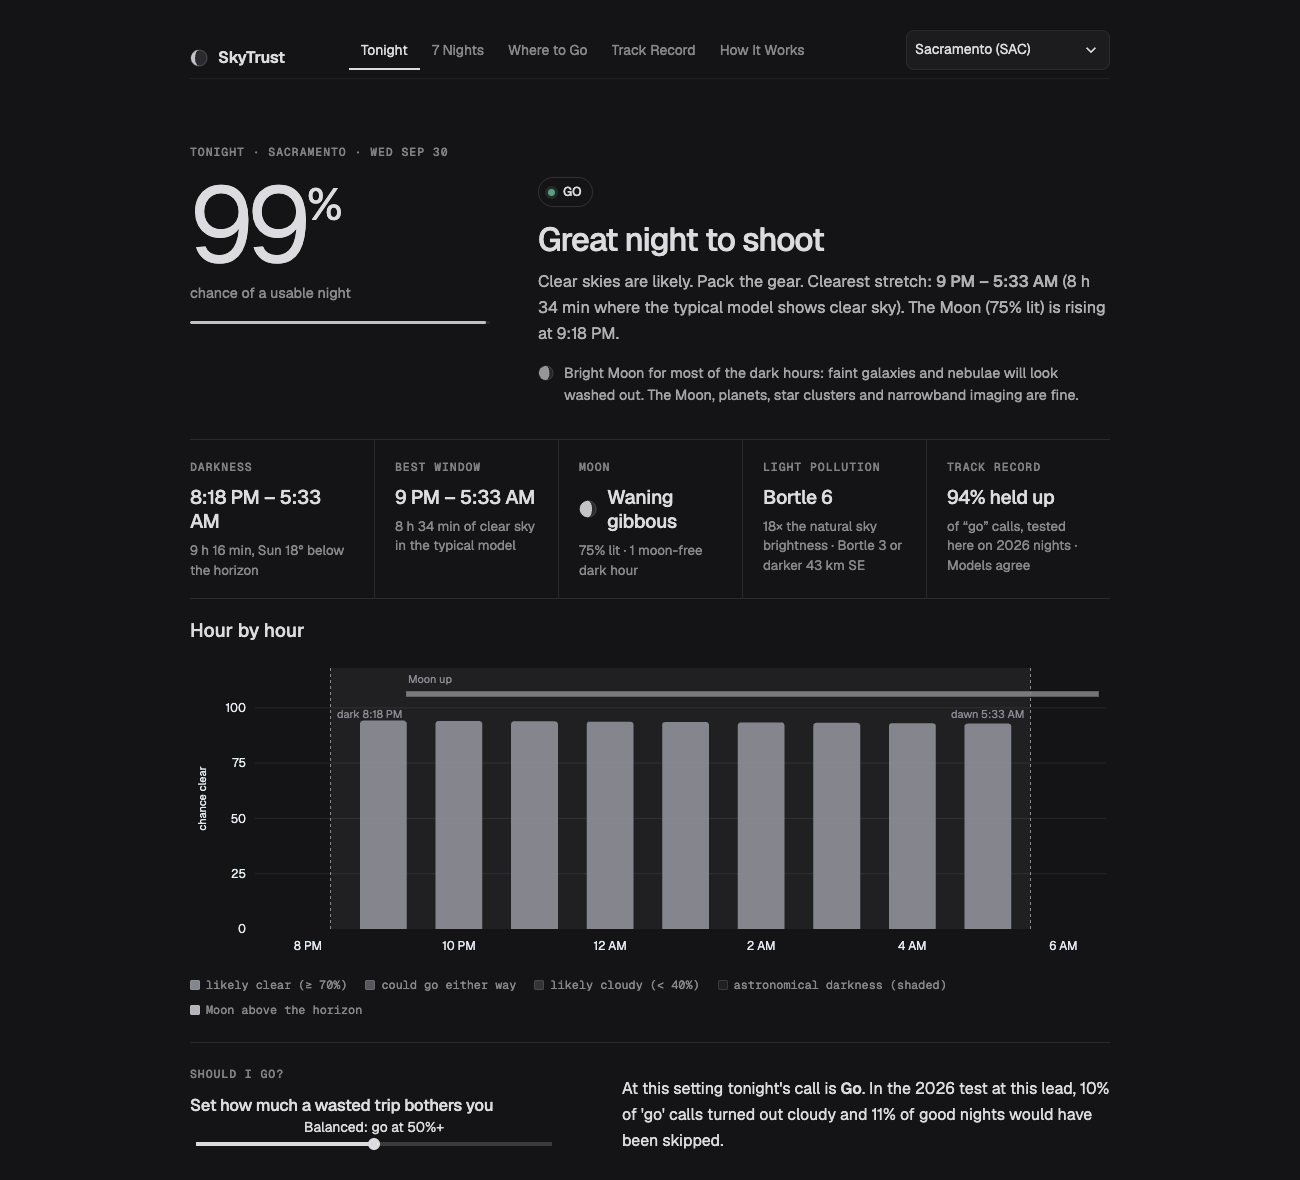
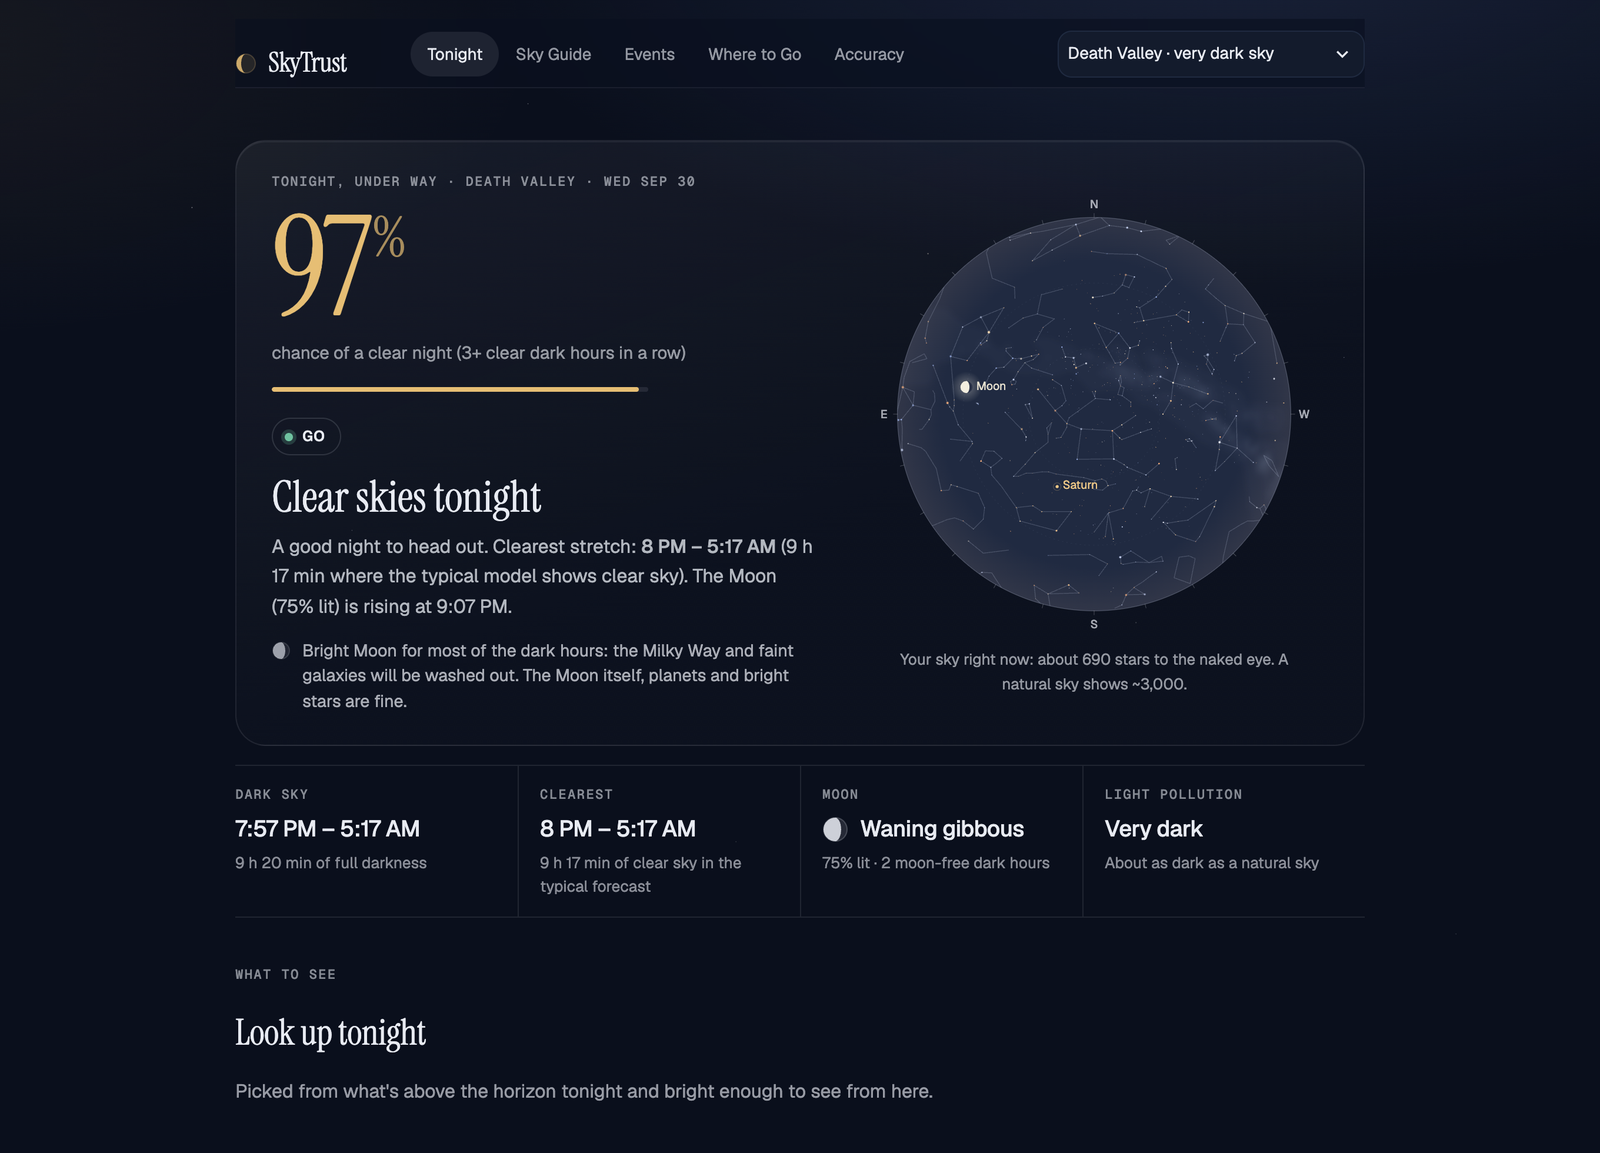
Docs: sky guide and events data notes, decisions, learning, expert advice, screenshots

diff --git a/README.md b/README.md
@@ -1,15 +1,21 @@
 # SkyTrust 🌙
 
-**An astronomy cloud forecast that tells you how often it's been wrong.**
+**A stargazing forecast for California that tells you how often it's been wrong, and what you'll
+actually see when you look up.**
 
 [![CI](https://github.com/hitenjain22/skytrust/actions/workflows/ci.yml/badge.svg)](https://github.com/hitenjain22/skytrust/actions/workflows/ci.yml)
 
 **Live app: [skytrust.streamlit.app](https://skytrust.streamlit.app/)** · **Full results:** [docs/RESULTS.md](docs/RESULTS.md)
 
 <p align="center">
-  <img src="docs/screenshots/tonight.png" alt="Tonight page: plain-English verdict with the chance of a usable night, darkness, best window, Moon phase, how much to trust it, and an hour-by-hour chart" width="68%">
+  <img src="docs/screenshots/tonight.png" alt="Tonight page: the chance of a clear night, a picture of the sky you'll actually see from there, and the four facts that matter" width="68%">
   &nbsp;
   <img src="docs/screenshots/tonight_mobile.png" alt="The same page on a phone" width="24%">
+</p>
+<p align="center">
+  <img src="docs/screenshots/sky_guide.png" alt="Sky Guide: a chart of tonight's sky over Death Valley with the Milky Way, planets and constellations, and a list of what's up and where" width="46%">
+  &nbsp;
+  <img src="docs/screenshots/events.png" alt="Events: meteor showers with expected meteors per hour at California places, Moon phases and planet events" width="46%">
 </p>
 
 ## The problem
@@ -52,13 +58,27 @@ flowchart LR
 - **The blend** is a logistic regression per lead time over every model's forecast, how much the
   models disagree, and site/season context. It's trained on 2024-25 and tested once on 2026.
 
-**Where to go:** tonight's forecast is combined with light pollution and the Moon. The peer-reviewed
-World Atlas of Artificial Night Sky Brightness (±0.15 mag/arcsec²) is brought up to **2025** with
-NASA night lights: a light-spread kernel learned from the atlas (spatial-CV error 0.044 mag) turns
-the change in lights since 2015 into the change in sky glow, checked against an independent 2025
-model. For any location the app shows sky quality and Bortle class, the change since 2015, the
-darkest skies within 25/50/100 km, and **city glow**: which towns' light domes sit on which part of
-the horizon, and where to point instead.
+## What the app does
+
+Five pages, written for someone new to stargazing, for nine well-known California places (bright
+cities to dark deserts) or any spot you choose:
+
+- **Tonight:** the chance of a clear night, a picture of the sky as you'll actually see it from
+  there (only the stars that show through the local light pollution and moonlight are drawn),
+  what to look for tonight (planets, the Milky Way, a star pattern to learn), and the week ahead.
+- **Sky Guide:** a live chart of the sky for any hour of the night, a list of what's up and where
+  ("high in the SE"), where the Milky Way runs and when it's best, and where to look with your back
+  to the Moon. Visibility comes from published models: Schaefer's limiting magnitude, Krisciunas &
+  Schaefer's moonlight, the light-pollution map.
+- **Events:** meteor showers (the International Meteor Organization's list), Moon phases, planets
+  at their best, close pairings and eclipses for the next four months, with when and where to
+  look, and for showers the expected meteors per hour at each place in California. Computed from
+  JPL's ephemeris and checked against published dates; see [docs/SKY_EVENTS.md](docs/SKY_EVENTS.md).
+- **Where to Go:** places ranked by tonight's clear sky, dark sky and Moon; light pollution in plain
+  words (very dark … city, "× natural"); the nearest darker skies; and **city glow**, which towns
+  light up which part of the horizon. The peer-reviewed World Atlas of Artificial Night Sky
+  Brightness is brought up to **2025** with NASA night lights.
+- **Accuracy:** the track record and how it works.
 
 ## Headline results
 
@@ -90,12 +110,12 @@ A backtest is evaluated on data the developer has seen, so SkyTrust also runs a 
 Every afternoon a scheduled GitHub Action saves the forecasts for the next 7 nights *before* the
 outcome exists. About a week later, once observations are published, it scores them with the same
 code, next to NOAA's National Blend of Models and the raw ECMWF/GEFS ensembles. The running record
-is on the app's Track Record page. The log is append-only on the
+is on the app's Accuracy page. The log is append-only on the
 [`forward-data`](https://github.com/hitenjain22/skytrust/tree/forward-data) branch.
 
 ## Methodology and caveats
 
-The short version is above; the app's **How It Works** page and [docs/RESULTS.md](docs/RESULTS.md)
+The short version is above; the app's **Accuracy** page and [docs/RESULTS.md](docs/RESULTS.md)
 have the details. Key caveats:
 - Airport ceilometers can't see cirrus; ERA5 is a model on a ~28 km grid and is made by ECMWF
   (so ECMWF may look better than it is under ERA5-based labels; results flag this).
@@ -149,9 +169,13 @@ src/skytrust/
   inference.py   numpy-only model loading/prediction (what the app runs)
   evaluate.py    metrics + week-block bootstrap CIs     report.py   RESULTS.md, README block
   live.py        tonight + 7-night outlook, last-good cache fallback
-app/             Streamlit app (4 pages)
+  lightpollution.py, skyglow.py   light-pollution map (2025) and city glow
+  sky.py         what's up tonight and what you can see (positions, light pollution, moonlight)
+  events.py      meteor showers, Moon, planets, pairings, eclipses     skycatalog.py  star data
+app/             Streamlit app (5 pages; the sky chart is drawn as SVG in views/skychart.py)
 artifacts/       model_lead{1..7}.json, metrics.json (committed; the app reads only these)
-config/          settings.yaml (all thresholds), sites.yaml (from IEM metadata)
+config/          settings.yaml (all thresholds), sites.yaml (evaluated airports), places.yaml,
+                 meteor_showers.yaml (IMO 2026)
 docs/            RESULTS, DATA_QUALITY, DATA_NOTES, DECISIONS, LEARNING, figures, screenshots
 tests/           offline tests + recorded API fixtures + a synthetic raw-data generator
 ```
@@ -162,7 +186,7 @@ Out of scope for v1, and natural extensions:
 - **Dew timer:** when optics will dew up from radiative cooling.
 - **Central Valley fog / inversion mode:** tule fog, and "drive above X ft".
 - **Mid-latitude aurora module.**
-- **GOES satellite clear-sky mask as ground truth:** fixes the ceilometer's cirrus blind spot.
+- **Satellite passes and comets:** ISS passes and bright comets need live orbital elements.
 - **Satellite cloud-motion nowcasting** for the next few hours.
 
 ## Data attribution
@@ -176,6 +200,9 @@ data [doi:10.5880/GFZ.1.4.2016.001](https://doi.org/10.5880/GFZ.1.4.2016.001) (C
 Night lights: NASA Black Marble (VNP46A4/VJ146A4, CC0) via [lightpollutionmap.info](https://www.lightpollutionmap.info).
 Place names: [GeoNames](https://www.geonames.org/) (CC BY 4.0).
 Astronomy computed with [Skyfield](https://rhodesmill.org/skyfield/) and JPL's DE421 ephemeris.
+Stars: ESA Hipparcos catalogue (via CDS). Constellation figures and Milky Way outline:
+[d3-celestial](https://github.com/ofrohn/d3-celestial) by Olaf Frohn (BSD-3-Clause). Meteor showers:
+the [International Meteor Organization](https://www.imo.net/)'s 2026 Meteor Shower Calendar.
 
 ---
 

diff --git a/docs/SKY_EVENTS.md b/docs/SKY_EVENTS.md
@@ -1,0 +1,72 @@
+# What the experts say about sky events (and how SkyTrust uses it)
+
+Notes from the organisations that publish sky events, gathered on 2026-09-30 for the Events and
+Sky Guide pages. Quotes are verbatim from the pages listed under Sources. Anything SkyTrust
+*computes* (times, rates, positions) is not repeated here: it comes from the code and is shown in
+the app, with the checks in `tests/test_events.py`.
+
+## International Meteor Organization (IMO): the meteor-shower calendar
+
+The IMO's *2026 Meteor Shower Calendar* (J. Rendtel, ed.) is the reference list for meteor
+showers; SkyTrust's `config/meteor_showers.yaml` is transcribed from its Table 5 ("Working List of
+Visual Meteor Showers").
+
+- **What a ZHR means:** "a calculated maximum number of meteors an ideal observer would see in
+  perfectly clear skies (reference limiting magnitude +6.5) with the shower radiant overhead."
+  So real rates are lower; SkyTrust shows the expected rate for each place with its light
+  pollution and the Moon, using the IMO's correction formula.
+- **The big three in 2026:** "the Quadrantid peak at Full Moon and moon-free nights for the peaks
+  of the Perseids and the Geminids."
+- **Autumn 2026:** "The maxima of the Orionids (008 ORI) and Leonids (013 LEO) occur when the Moon
+  is near its first quarter. There is only a waxing crescent at the Geminid (004 GEM) maximum."
+  The two Taurid branches peak "around November 05 (Southern Taurids…) and November 12 (Northern
+  Taurids…), respectively, in a moon-free period."
+- **Geminids:** "The best and most reliable of the major annual showers presently observable…
+  known for bright meteors and fireballs. Well north of the equator, the radiant rises about
+  sunset, reaching a usable elevation already from the local evening hours onwards."
+- **Orionids:** "The shower's radiant… is at a useful elevation from local midnight or so…
+  The waxing moon leaves some moon-free hours at least until the maximum of the shower."
+- **Draconids:** "Perfectly moonless observing conditions… this year… Draconid meteors are
+  exceptionally slow-moving." Usually weak, but storms in 1933 and 1946 and outbursts since.
+
+## NASA
+
+- **Meteor watching** (NASA's Orionids page): "Find an area well away from the city or street
+  lights." "Lie flat on your back… and look up." "In less than 30 minutes in the dark, your eyes
+  will adapt and you will begin to see meteors." The best views come from "45 to 90 degrees away
+  from the radiant" where meteors "will appear longer and more spectacular." The show is viewable
+  "during the hours after midnight" and "will last until dawn."
+- **Shower parents:** the Orionids and the Eta Aquariids come from comet 1P/Halley; the
+  Quadrantids "originate from an asteroid: asteroid 2003 EH1," and their peak "is much shorter –
+  only a few hours." The Eta Aquariids are seen "during the pre-dawn hours."
+- **October 2026 Night Sky Notes:** Algol, "the Demon Star," in Perseus, visible with Cassiopeia
+  and Andromeda "in the northeastern sky, beginning after 9 PM," dims from magnitude +2.1 to +3.4
+  "about every three days"; the Orionids are "active from Oct. 2 – Nov. 7, 2026, with peak night on
+  Oct. 21-22."
+- **Beginners:** NASA's tips pages suggest that "a good pair of binoculars" makes an excellent
+  first instrument.
+- **Eclipses:** NASA's eclipse catalogue (F. Espenak) gives the 2026 August 28 partial lunar
+  eclipse an umbral magnitude of 0.9299, greatest at 04:13 UTC, which SkyTrust's computation
+  reproduces.
+
+## How SkyTrust turns this into advice
+
+| Expert advice | In the app |
+|---|---|
+| Get away from city lights | Expected meteors per hour at every place, and a "best places in California" list for each shower |
+| Moonlight hurts | Moon phase and whether it's up at the best time; a Krisciunas & Schaefer moonlight model in the sky chart |
+| Look 45–90° from the radiant; lie back | Radiant direction and height for your place, and the tip on every shower |
+| Give your eyes 20–30 minutes | In the beginner guide on Tonight |
+| ZHR is an ideal-observer number | Rates shown for one observer, capped at the ZHR, never more |
+| Peak nights are written as "Oct 21–22" | Events are dated by the evening the night starts |
+
+## Sources
+
+- IMO, *2026 Meteor Shower Calendar*: https://www.imo.net/the-2026-meteor-shower-calendar-is-here/
+  (PDF copy: http://www.meteorastronomie.ch/images/cal2026_e.pdf)
+- NASA, Orionids: https://science.nasa.gov/solar-system/meteors-meteorites/orionids/
+- NASA, Quadrantids: https://science.nasa.gov/solar-system/meteors-meteorites/quadrantids/
+- NASA, Eta Aquariids: https://science.nasa.gov/solar-system/meteors-meteorites/eta-aquarids/
+- NASA Night Sky Network, October 2026: https://science.nasa.gov/solar-system/skywatching/night-sky-network/spooky-stargazing/
+- NASA skywatching tips: https://science.nasa.gov/skywatching/tips-guides/
+- NASA eclipses 2026: https://eclipse.gsfc.nasa.gov/OH/OH2026.html

diff --git a/docs/DATA_NOTES.md b/docs/DATA_NOTES.md
@@ -291,3 +291,55 @@ Checked against real files (2025-01-10, 2025-06-15, 2026-02-03) before any code 
 - **Walker's law** (Walker 1977, *PASP* 89:405): glow toward a city ∝ distance^−2.5, used for the
   *relative* strength of light domes. The absolute constant could not be confirmed from a
   primary source, so strengths are relative to Sacramento's dome seen from 50 km.
+
+## 13. The sky guide and sky events, added 2026-09-30
+
+**Places** (`config/places.yaml`): nine well-known California places, coordinates and elevation
+(SRTM3 `dem`) from GeoNames cities1000 (CC BY 4.0); each row keeps its `geonames_id`. "Lake
+Tahoe" is the GeoNames record for South Lake Tahoe; "Death Valley" is the populated place of that
+name (GeoNames 12523068). How dark each place is comes from the 2025 light-pollution grid at run
+time (SQM: Los Angeles 17.29, San Francisco 18.11, Sacramento 18.08, Santa Barbara 19.38, Big Bear
+Lake 20.93, Joshua Tree 21.09, South Lake Tahoe 21.37, Yosemite Valley 21.96, Death Valley 21.98).
+They were never part of the evaluation, so forecasts there use the site-agnostic blend.
+
+**Stars**: Hipparcos main catalogue (ESA 1997, CDS I/239, `hip_main.dat`), every star with
+V ≤ 6.5 (8,874): position (ICRS, epoch J1991.25; proper motion ignored, < 0.1° for any naked-eye
+star in 35 years), V, B−V. A few entries have no astrometric solution; their sexagesimal columns
+are used. Proper names: Skyfield's `named_star_dict` (100 of its names are among these stars).
+
+**Constellations and the Milky Way**: d3-celestial by Olaf Frohn (BSD-3-Clause):
+`constellations.lines.json` (stick figures), `constellations.json` (label positions, a 1–3
+importance rank), `mw.json` (five nested brightness levels of the Milky Way outline). Constellation
+membership of every star and object comes from Skyfield's bundled IAU boundaries (Roman 1987), an
+independent check on the third-party coordinates.
+
+**Deep-sky showpieces**: d3-celestial `messier.json` and `dsos.bright.json`. **Finding:** the
+bright-DSO list files M4 at RA 83.82°, M42's right ascension (M4 is at 245.9°, in Scorpius). The
+build checks every object against the constellation it must fall in and refuses bad ones, so
+Messier objects come from the Messier list. Clusters wider than 100′ (Pleiades, Hyades, α Persei,
+Coma) are judged by their third-brightest catalogue star within the cluster radius, not their
+combined magnitude.
+
+**Meteor showers** (`config/meteor_showers.yaml`): the IMO's *2026 Meteor Shower Calendar*
+(J. Rendtel, ed., IMO INFO(3-25), DOI 10.13140/RG.2.2.36179.08480), Table 5. Peaks are stored as
+solar longitudes and converted to times with Skyfield; for 2026 they reproduce the calendar's
+times within 25 minutes (Geminids 13:49 vs 14h UT, Leonids 23:52 vs 23:45, Draconids 01:21 vs 01h,
+Quadrantids 21:24 vs ~21h). Notes on parent bodies are from the calendar text or NASA's shower
+pages. **Findings:** (1) the calendar's Draconid radiant is 262°, +54° in Table 5 but 263°, +56° in
+the text; Table 5 is used. (2) Table 4's lunar phase dates follow Central European time: the
+June 2026 full Moon (23:57 UTC on June 29, confirmed by other sources) is listed as June 30.
+
+**Validation of the computed events** (tests/test_events.py): every 2026 new and full Moon matches
+IMO Table 4; Saturn's 2026 opposition is computed at 12:29 UTC on October 4 (published ~12:00 UTC,
+definitions differ); the 2026 lunar eclipses are found on March 3 (total) and August 28 (partial,
+greatest at 04:12:54 UTC, umbral magnitude 0.929; NASA/Espenak: 04:13 UTC, 0.9299). News reports'
+"96%" for that eclipse is by area, not diameter.
+
+**Formulas** (sources in `sky.py`): limiting magnitude NELM = 7.93 − 5 log10(10^(4.316 − B/5) + 1)
+(Schaefer 1990 via Unihedron); moonlight per Krisciunas & Schaefer (1991) as reproduced in Yao et
+al. (2013, RAA 13:1255); B[nL] = 34.08 exp(20.7233 − 0.92104 V) (Garstang 1989, confirmed in
+arXiv:1710.06755); observed meteor rate = ZHR · sin(h) / r^(6.5 − LM) (the IMO formula, zenith
+exponent 1; LM capped at 6.5). Assumed: extinction 0.20 mag/airmass (K&S: 0.172 on Mauna Kea; Yao
+et al.: 0.23 at Xinglong). Wikipedia's Bortle table lists naked-eye limits 0.3–1.2 mag fainter than
+the Schaefer formula at the same SQM: Bortle describes experienced observers, the formula a
+typical one; the app uses the formula and says so.

diff --git a/docs/LEARNING.md b/docs/LEARNING.md
@@ -819,3 +819,51 @@ darkest, not just one number overhead.
 1. Why update the old atlas by a ratio instead of replacing it with your model?
 2. How would you validate a model when the "truth" is itself a model?
 3. What's Walker's law, and why use it only for relative dome strength?
+
+---
+
+## `skytrust/sky.py`: what can I actually see tonight?
+
+**What:** For a place and a night: where the planets, Moon, bright stars, star patterns, clusters
+and the Milky Way are, when each is best, and whether it will show through the local light
+pollution and moonlight. Also where the sky is darkest while the Moon is up.
+
+**Why:** "Clear" isn't enough for a beginner. From Los Angeles you see about 50 stars; from Death
+Valley about 3,000. Telling people what they will actually see, and where to look, is the useful
+part.
+
+**Key concepts:**
+- **Coordinate frames:** catalogue positions (J2000) → apparent positions of date → altitude and
+  azimuth via local sidereal time. Computing the slow part once per night makes it fast.
+- **Physical models over guesses:** sky brightness from a calibrated atlas, moonlight from
+  Krisciunas & Schaefer's scattering model, the faintest visible star from Schaefer's formula.
+- **Calibrating a heuristic against an independent description:** the one tuned rule is set so the
+  Bortle scale's descriptions come out right.
+
+**Interview questions:**
+1. Why is the darkest part of a moonlit sky not directly opposite the Moon?
+2. How do you turn "sky brightness in mag/arcsec²" into "how many stars can I see"?
+3. Why does a star cluster with a bright total magnitude sometimes not show from a city?
+
+---
+
+## `skytrust/events.py`: sky events, computed and checked
+
+**What:** Meteor showers (from the IMO's list), Moon phases, planets at opposition and greatest
+elongation, close pairings of the Moon and planets, lunar eclipses and the seasons, with when and
+where to look from a place and, for showers, the expected meteors per hour at each place.
+
+**Why:** "Is anything happening this week?" is the first question a new stargazer asks, and the
+answer depends on where you are (light pollution changes a shower from 1 to 20 meteors an hour).
+
+**Key concepts:**
+- **Recurring by solar longitude:** showers return when Earth reaches the same point of its orbit,
+  so a peak is a solar longitude, not a date; root-finding turns it into a time for any year.
+- **Event search:** find_discrete / find_maxima over smooth functions (phase, elongation,
+  separation), then refine.
+- **Test against the world:** published phase tables, opposition times and eclipse figures.
+
+**Interview questions:**
+1. Why store a meteor shower's peak as a solar longitude rather than a date?
+2. How would you find every moment two planets come within 3° over four months, efficiently?
+3. The ZHR is 150; why might you only see 7 meteors an hour from a city?

diff --git a/docs/DECISIONS.md b/docs/DECISIONS.md
@@ -506,3 +506,26 @@ Hiten asked for the path that is easiest to understand and gives the most consis
 - **Shared links are untrusted input:** coordinates outside the covered area or not numbers
   fall back to the default spot with a notice; names are reduced to plain text (they appear in
   markdown headings).
+
+## 2026-09-30: a stargazing guide for beginners (sky guide, events, places, plain language)
+- **Places instead of airports in the menu:** nine well-known California places (three bright,
+  three in between, three dark, picked by the 2025 light-pollution grid) replace the five ASOS
+  airports, at Hiten's request. The airports stay the evaluation sites: Track Record still reports
+  them, and the places use the site-agnostic blend with its leave-one-site-out record (a place is
+  never shown a track record it doesn't have). `live.uses_site_blend` makes that explicit.
+- **Light pollution in words, not Bortle numbers:** five tiers (very dark, dark, suburban, bright,
+  city) are the Bortle classes' SQM ranges grouped (1–3, 4–4.5, 5, 6–7, 8–9), plus "× natural".
+  Bortle is mentioned only in the method notes.
+- **Computed, not looked up:** planets, Moon, eclipses, pairings, oppositions and shower peaks come
+  from the ephemeris already in the repo, checked against published values; only the meteor-shower
+  list is a table (the IMO's), because shower activity can't be computed.
+- **Visibility from published models, with stated assumptions:** Schaefer's limiting magnitude,
+  Krisciunas & Schaefer moonlight, Garstang's units; one tuned rule (extended objects need 0.5 mag
+  more darkness) is set to reproduce the Bortle scale's own descriptions of M31 and M33.
+- **The chart is SVG, drawn server-side:** a real planisphere (Hipparcos stars, IAU figures, Milky
+  Way outline) where only the stars you could see are drawn, so light pollution shows at a glance;
+  faint stars are batched into paths to keep a dark-sky chart under ~150 KB.
+- **Five pages:** Tonight (with the week), Sky Guide, Events, Where to Go, Accuracy (track record
+  + how it works). Old links (`7-nights`, `track-record`, `how-it-works`, `site=sac`/`trk`) keep
+  working.
+- **No new dependencies.**
